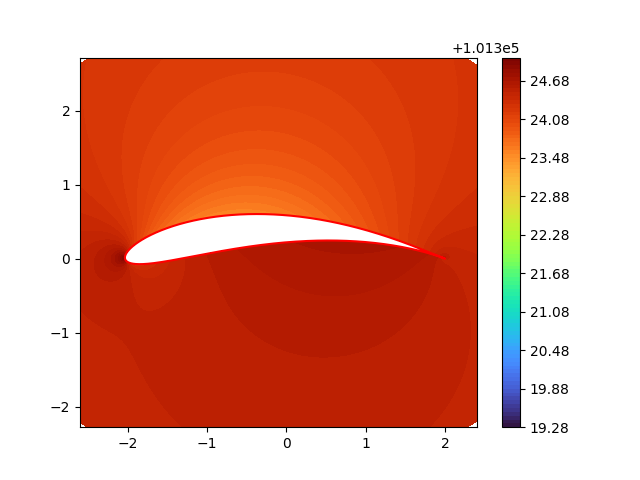
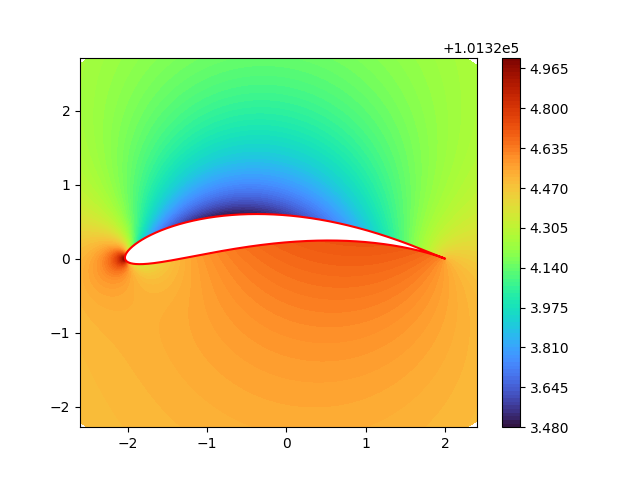
fixed lift force calculation

diff --git a/python/project 1/premade_figures.py b/python/project 1/premade_figures.py
@@ -1,29 +1,30 @@
 from main import plotter_function, plotter, pressure, print_force, question_a, velocity_field, joukowski_velocity
 import numpy as np
 a = 1.12
-z0 = (-0.1, 0.22)
+z0 = -0.1 + 0.22j
+correct_gamma = -2.8
 #region a)
-question_a(save=True, filename='a_scatter.png')
+#question_a(save=True, filename='a_scatter.png')
 #endregion
 #region b)
-plotter(plotter_function(1, 0, a, 0), joukowski=False, draw_shape=True, fig_limit=2.5, contours=100, save=True, filename='b_streamfunction_gamma0.png')
-plotter(plotter_function(1, 0, a, -3), joukowski=False, draw_shape=True, fig_limit=2.5, contours=100, save=True, filename='b_streamfunction_gamma-3.png')
+#plotter(plotter_function(1, a, 0), joukowski=False, draw_shape=True, fig_limit=2.5, contours=100, save=True, filename='b_streamfunction_gamma0.png')
+#plotter(plotter_function(1, a, -3), joukowski=False, draw_shape=True, fig_limit=2.5, contours=100, save=True, filename='b_streamfunction_gamma-3.png')
 #endregion
 #region c)
-plotter(plotter_function(1, 0, a, 0), joukowski=True, draw_shape=True, fig_limit=2.5, contours=100, save=True, filename='c_streamfunction_gamma0.png')
-plotter(plotter_function(1, 0, a, -3), joukowski=True, draw_shape=True, fig_limit=2.5, contours=100, save=True, filename='c_streamfunction_gamma-3.png')
+#plotter(plotter_function(1, a, 0), joukowski=True, draw_shape=True, fig_limit=2.5, contours=100, save=True, filename='c_streamfunction_gamma0.png')
+#plotter(plotter_function(1, a, -3), joukowski=True, draw_shape=True, fig_limit=2.5, contours=100, save=True, filename='c_streamfunction_gamma-3.png')
 #endregion
 #region d)
-plotter(plotter_function(1, 0, a, -2.5), joukowski=True, draw_shape=True, fig_limit=0.3, fig_offset=[2.1, -0.2], contours=400, save=True, filename='d_streamfunction_gamma-0.2.png')
+#plotter(plotter_function(1, a, correct_gamma), joukowski=True, draw_shape=True, fig_limit=0.3, fig_offset=[2.1, -0.2], contours=400, save=True, filename=f'd_streamfunction_gamma-{correct_gamma}.png')
 #endregion
 #region e)
-plotter(plotter_function(1, 0, a, -2.5), joukowski=True, draw_shape=True, fig_limit=2.5, contours=100, save=True, filename='e_streamfunction_gamma-2.5.png')
-plotter(plotter_function(1, 0, a, -2.5, function='stream'), joukowski=True, draw_shape=True, fig_limit=0.3, fig_offset=[2.1, -0.2], contours=800, save=True, filename='e_zoomed_streamfunction_gamma-2.5.png')
+#plotter(plotter_function(1, a, correct_gamma), joukowski=True, draw_shape=True, fig_limit=2.5, contours=100, save=True, filename=f'e_streamfunction_gamma-{correct_gamma}.png')
+#plotter(plotter_function(1, a, correct_gamma, function='stream'), joukowski=True, draw_shape=True, fig_limit=0.3, fig_offset=[2.1, -0.2], contours=800, save=True, filename=f'e_zoomed_streamfunction_gamma-{correct_gamma}.png')
 #endregion
 #region f)
-plotter(plotter_function(1, 0, a, -2.5, function='pressure'), joukowski=True, draw_shape=True, fig_limit=2.5, contours=100, colourmap='turbo', fill=True, save=True, filename='f_pressure.png')
-plotter(plotter_function(1, 0, a, -2.5, function='jvelocity'), joukowski=True, draw_shape=True, fig_limit=2.5, contours=100, colourmap='turbo', fill=True, save=True, filename='f_joukowski_velocity.png')
+plotter(plotter_function(1, 0, a, correct_gamma, function='pressure'), joukowski=True, draw_shape=True, fig_limit=2.5, contours=100, colourmap='turbo', fill=True, save=True, filename='f_pressure.png')
+#plotter(plotter_function(1, a, correct_gamma, function='jvelocity'), joukowski=True, draw_shape=True, fig_limit=2.5, contours=100, colourmap='turbo', fill=True, save=True, filename='f_joukowski_velocity.png')
 #endregion
 #region g)
-#print_force(x_vel=1, y_vel=0, a=a, gamma=-2.5)
+#print_force(1, 0, a=a, gamma=correct_gamma)
 #endregion

diff --git a/python/project 1/main.py b/python/project 1/main.py
@@ -39,13 +39,14 @@ air_pressure = 101325
 air_density = 1.225
 def pressure(x, y, x_vel, y_vel, a, gamma):
     v = np.abs(joukowski_velocity(velocity_field(x, y, x_vel, y_vel, a, gamma), x, y))
-    p =  air_pressure - 0.5 *(air_density * v**2)
+    p = air_pressure - 0.5 *(air_density * v**2)
     return p
 
 def force(x, y, x_vel, y_vel, a, gamma, joukowski=False):
     vel = velocity_field(x, y, x_vel, y_vel, a, gamma)
     if joukowski:
-        vel = joukowski_velocity(vel, x, y)      
+        vel = joukowski_velocity(vel, x, y)
+        x, y = joukowski_transform(x, y, 1)
     z = x + 1j * y
     dz = (np.roll(z, -1) - np.roll(z, 1)) / 2
     return (1j * air_density) / 2 * np.sum((vel**2) * dz)
